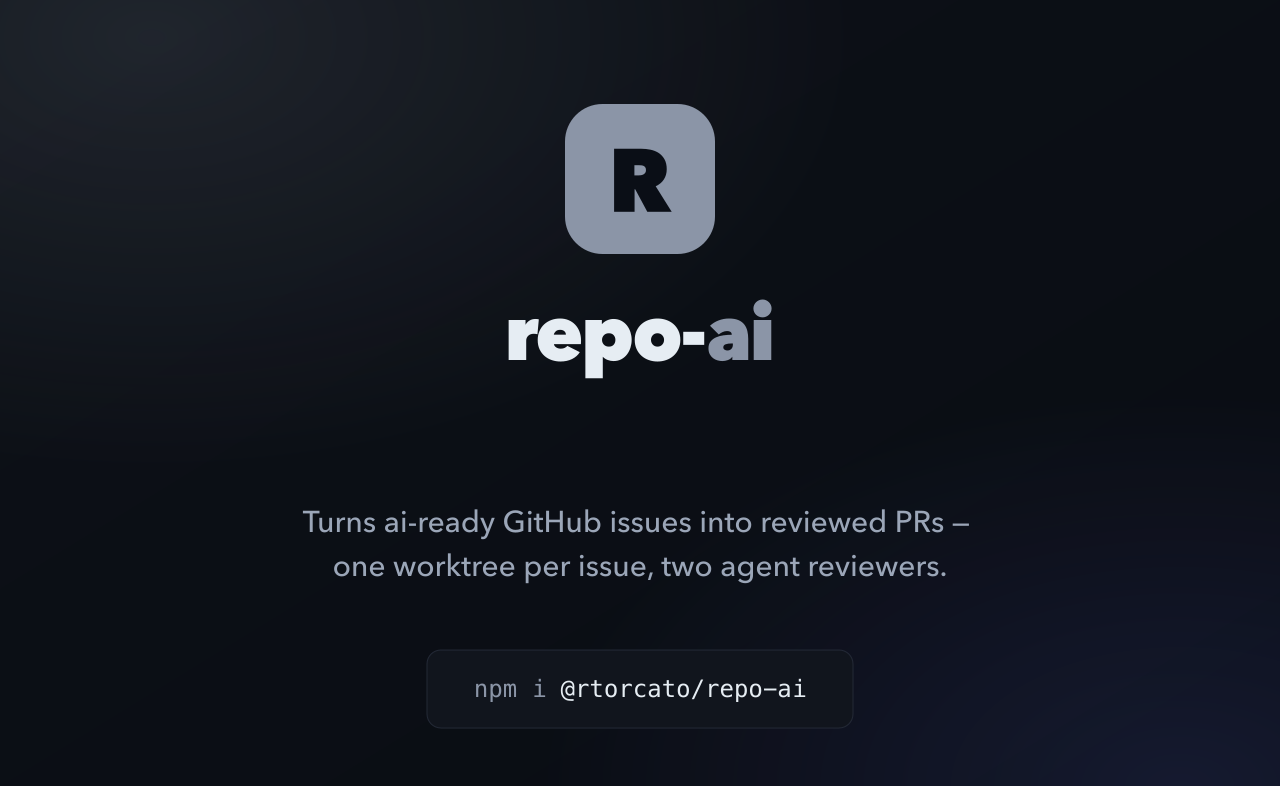
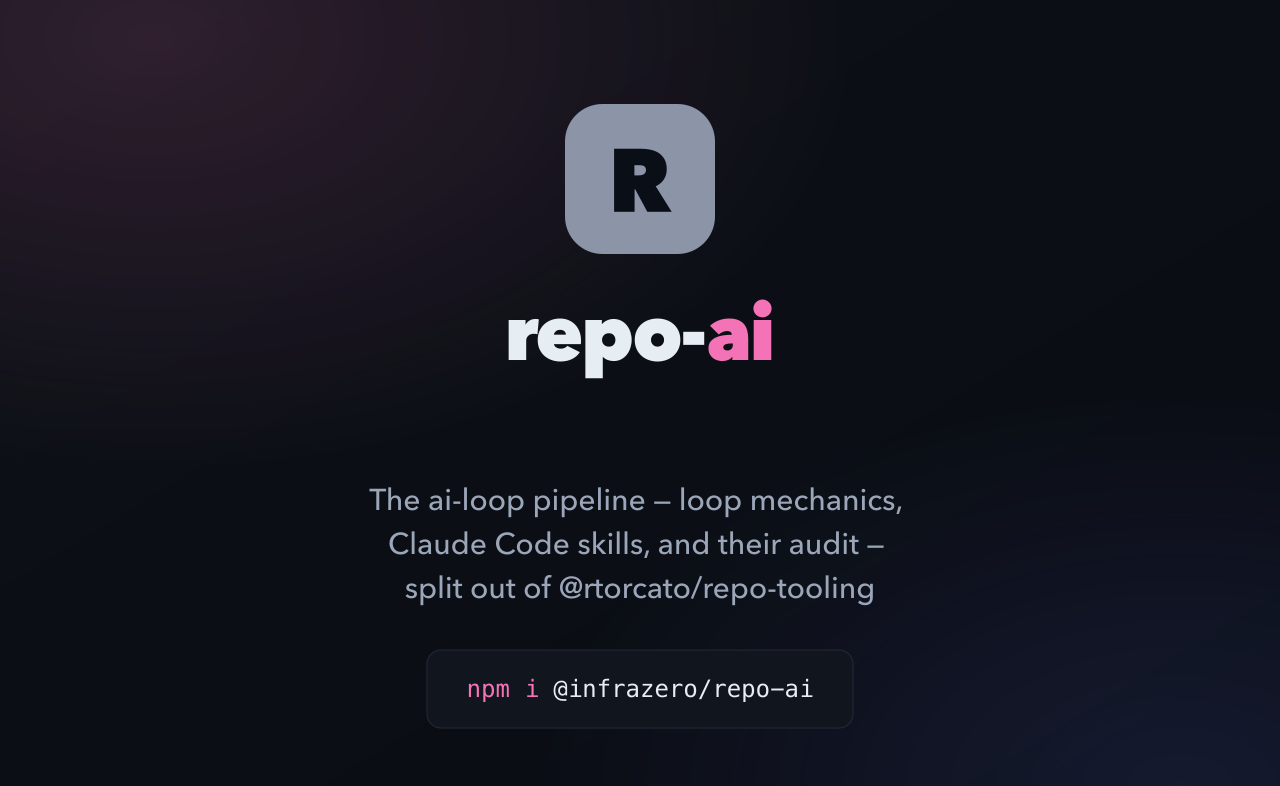
chore(brand): migrate to @rtorcato/brand-kit
Regenerate all brand assets (SVGs, PNGs, favicon) using @rtorcato/brand-kit
to ensure consistency and enable doctor validation. Add missing files
(favicon.svg, favicon-512.png, social-card.png, .render.json) and update
render.sh to the current template.

Copy brand files to apps/docs/static/img/ for Docusaurus to serve.

Closes #331

Changed region(s): [[0.2188, 0.6107, 0.75, 0.7634], [0.375, 0.855, 0.625, 0.8855], [0.5312, 0.3664, 0.625, 0.458]]

diff --git a/README.md b/README.md
@@ -1,3 +1,10 @@
+<!-- brand-kit:banner:start -->
+<picture>
+  <source media="(max-width: 640px)" srcset="./brand/banner-mobile.png">
+  <img src="./brand/banner.png" alt="repo-ai banner" width="1600">
+</picture>
+<!-- brand-kit:banner:end -->
+
 <picture>
   <source media="(max-width: 640px)" srcset="./brand/banner-mobile.png">
   <img src="./brand/banner.png" alt="repo-ai banner" width="1600">
